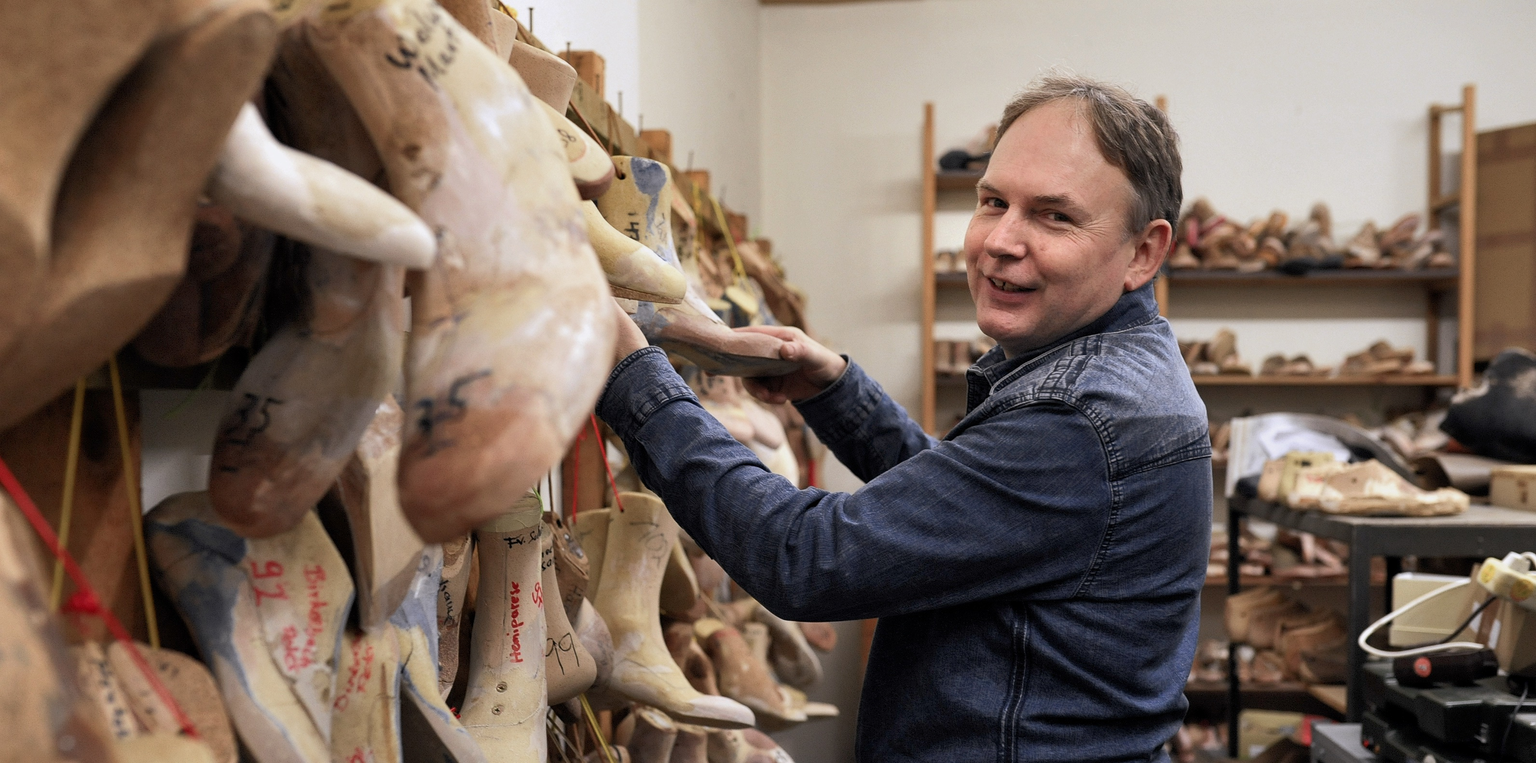
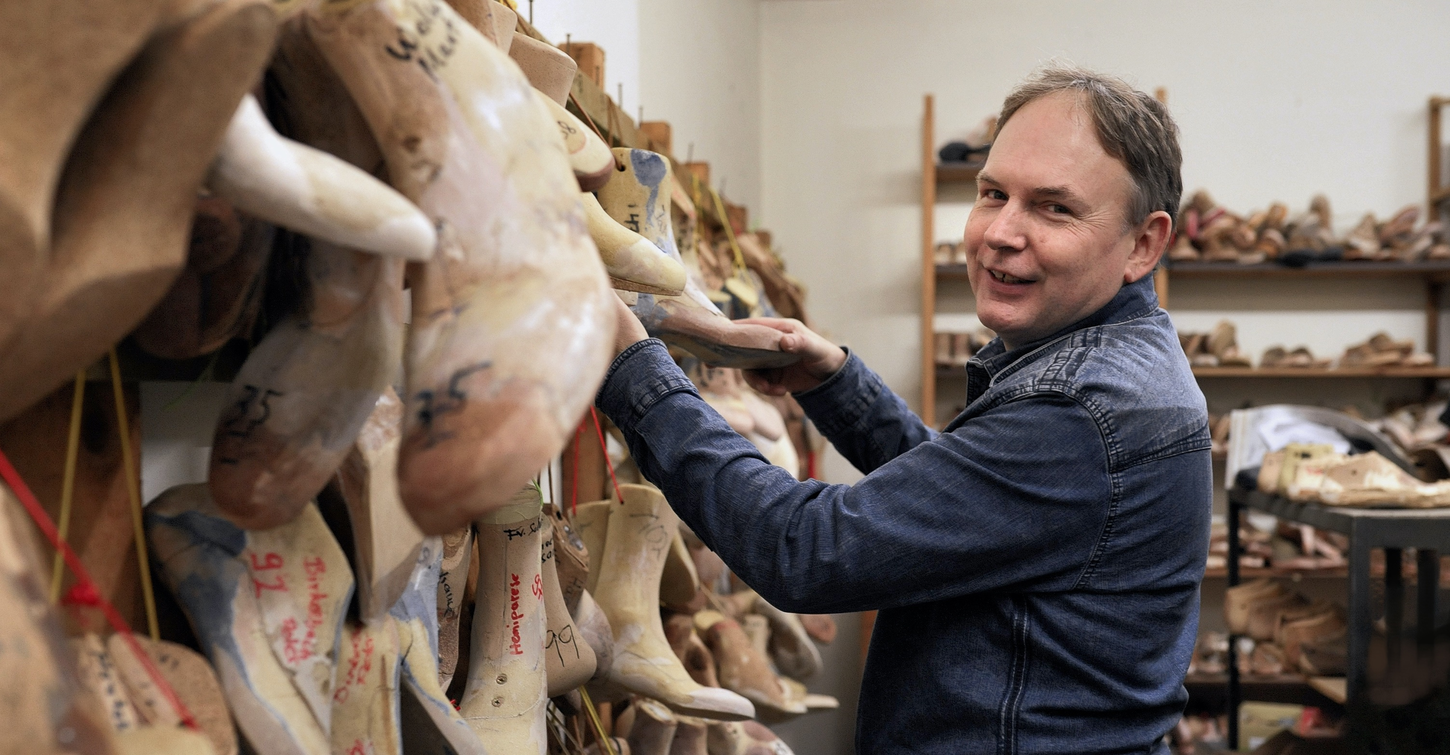
Infomeldung und neues Hero Bild

diff --git a/_includes/css/main.css b/_includes/css/main.css
@@ -94,6 +94,21 @@ p a:hover {
     color: #FFCDAC;
 }
 
+.centered {
+  text-align: center;
+}
+
+.red {
+  color: #ff0000;
+  border: solid #f5c6cb 1px;
+  border-radius: 5px;
+  padding: 10px;
+  background-color: #f8d7da;
+
+}
+
+
+
 .text {
     max-width: 940px;
 }
@@ -197,6 +212,11 @@ p a:hover {
     margin-top: 20px;
 }
 
+.margin-bottom__small {
+  margin-bottom: 20px;
+  color: green;
+}
+
 
 
 
@@ -216,7 +236,7 @@ p a:hover {
     display: inline-flex;
     align-items: center;
     justify-content: center;
-    
+
 
 }
 
@@ -360,6 +380,14 @@ p a:hover {
     flex-direction: column;
     align-items: center;
     justify-content: space-between;
+}
+
+.card--info {
+  width: 600px;
+  padding: 30px;
+  height: auto;
+  margin-top: 50px;
+  margin-bottom: none;
 }
 
 .card-link {
@@ -623,7 +651,7 @@ p a:hover {
     .text__element-row {
         flex-direction: column;
     }
-    
+
     .text--center p br {
         display: none;
     }
@@ -631,7 +659,7 @@ p a:hover {
     .institution-table, .institution, .institution__data, thead, tbody, th{
         display: block;
         width: 100%;
-    } 
+    }
 
     .overview, .overview__service, .overview tr{
 
@@ -722,7 +750,7 @@ p a:hover {
 
    }
 
-   
+
    .overview__service{
 
         line-height: 24px;
@@ -757,7 +785,7 @@ p a:hover {
       border-top: none;
 
    }
-     
+
  .offer {
     display: none;
     /*max-width: 90%;
@@ -801,7 +829,7 @@ p a:hover {
         padding: 0 20px 0 20px;
     }
 
-    
+
 
     #timeline-mobil {
     display: block;

diff --git a/pages/index.html b/pages/index.html
@@ -42,6 +42,7 @@ permalink: /
 </header>
 
 <main>
+
     <div class="text--center">
         <p>Wir sind Ihr Partner wenn es um Fuß-, Knie- oder Rückenfragen geht.
             <br> Unsere Betriebsstruktur der kurzen Wege ermöglicht es uns, schnell und
@@ -50,7 +51,28 @@ permalink: /
         </p>
         <p>Wir freuen uns auf Ihren Besuch!</p>
     </div>
-    <div class="section">
+		<div class="text--center card card--info section">
+			<h2 class="centered" style="margin-bottom: 10px;">Aktuelle Info</h2>
+			<p class="centered red" >Wir sind für Sie da mit geänderten Öffnungszeiten.
+			<br>Bitte vorher anrufen und ggf. Termin vereinbaren.</p>
+			<div class="open footer-section" style="margin-bottom: 10px;">
+					<div>
+							<strong>Montag und Donnerstag</strong>
+							<br>8:30-17:30
+					</div>
+					<div>
+							<br><strong>Dienstag, Mittwoch und Freitag</strong>
+							<br>8:30-17:00
+					</div>
+					<div>
+							<br><strong>Samstag</strong>
+							<br>geschlossen
+					</div>
+			</div>
+			<strong class="centered" style="margin-bottom: 10px; margin-top: 10px;">Unser Team wünscht Ihnen alles Gute <br>und vor allem Gesundheit.</strong>
+
+		</div>
+    <div class="section" style="margin-top: 100px;">
         <h2>Orthopädie-Schuhtechnik</h2>
         <table class="overview">
             <tr>

diff --git a/_includes/html/footer.html b/_includes/html/footer.html
@@ -31,11 +31,11 @@
         <div class="open footer-section">
             <div>
                 <strong>Montag und Donnerstag</strong>
-                <br>8:30-18:30
+                <br>8:30-17:30
             </div>
             <div>
                 <br><strong>Dienstag, Mittwoch und Freitag</strong>
-                <br>8:30-18:00
+                <br>8:30-17:00
             </div>
             <div>
                 <br><strong>Samstag</strong>

diff --git a/_includes/css/footer.css b/_includes/css/footer.css
@@ -57,7 +57,7 @@ footer * {
 
     .footer-section {
         margin-bottom: 60px;
-        width: 300px;     
+        width: 300px;
     }
 
     /*.address {
